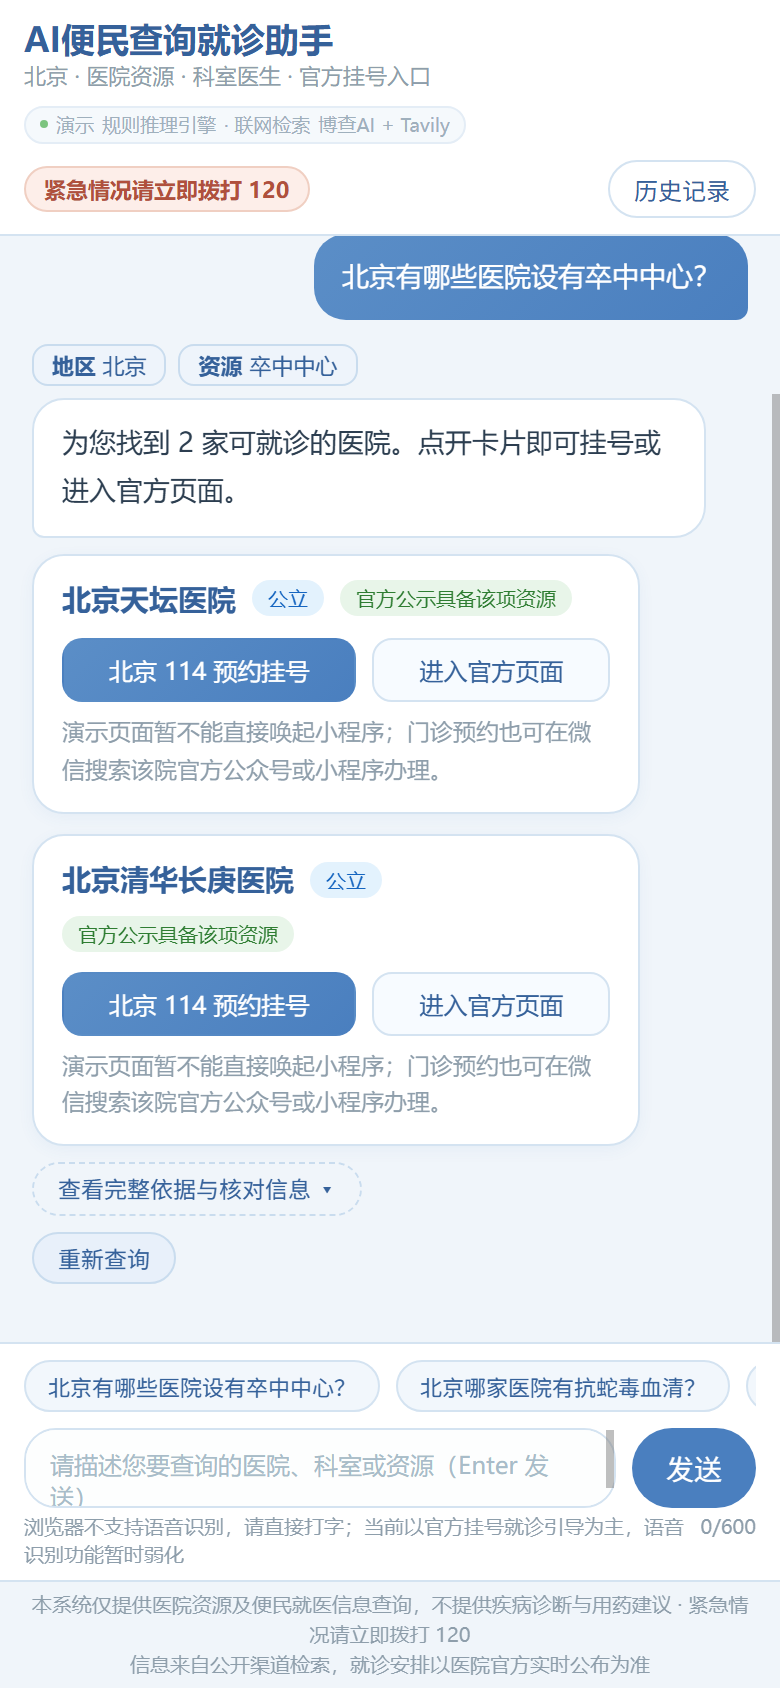
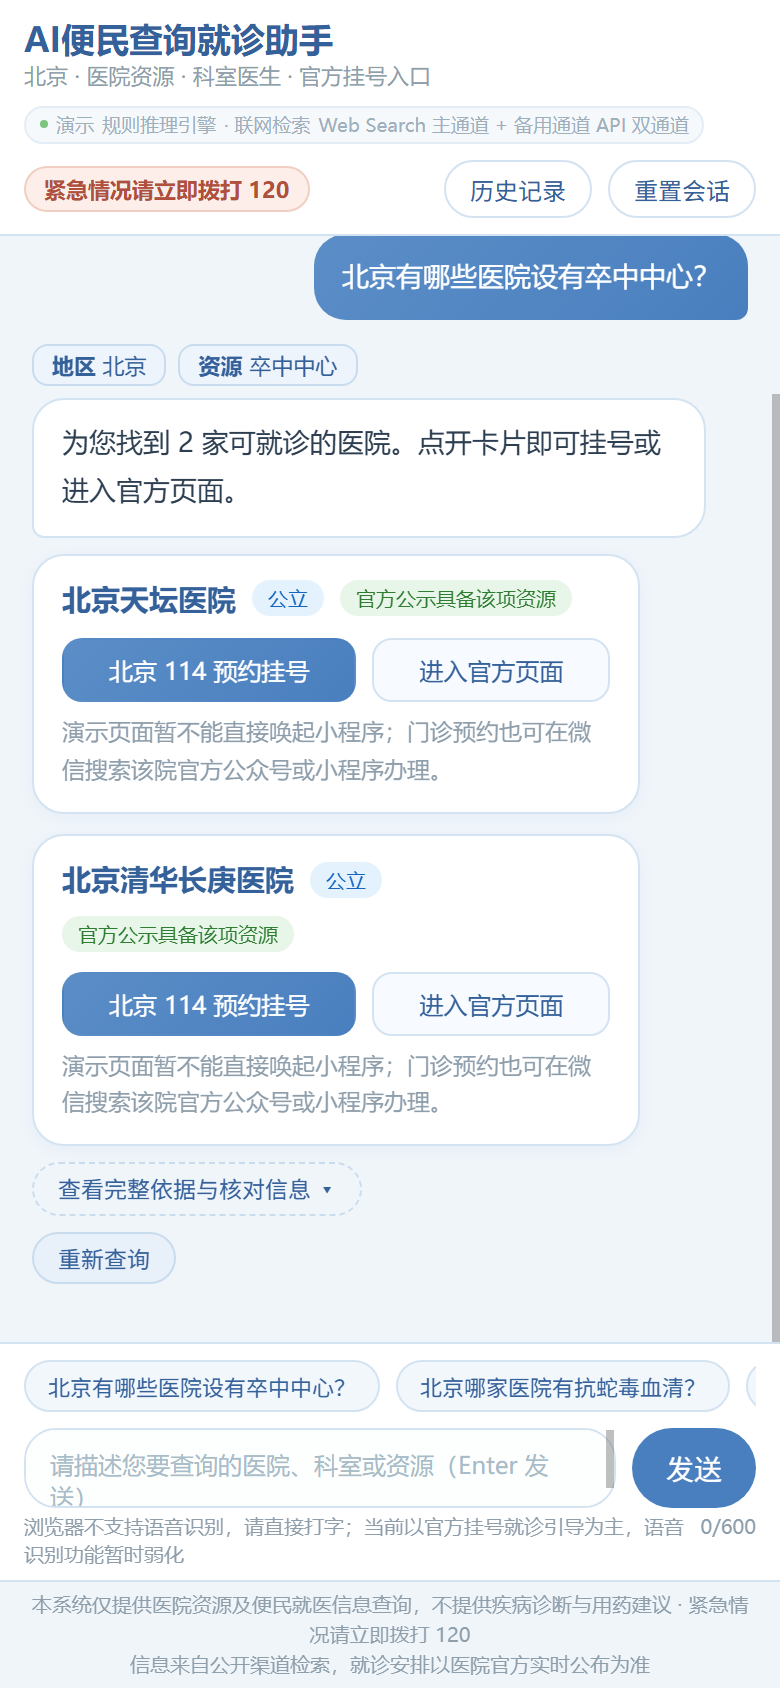
左上角标识改为泛化表述；刷新改版截图

Changed region(s): [[0.4, 0.0616, 0.9538, 0.1232]]

diff --git a/public/index.html b/public/index.html
@@ -166,7 +166,7 @@
 <body>
 <header>
   <div class="logo">AI便民查询就诊助手<small>北京 · 医院资源 · 科室医生 · 官方挂号入口</small></div>
-  <span class="model-badge" title="推理方式：规则推理引擎（不依赖大模型内部知识回答医院事实）｜联网检索：博查AI Web Search + Tavily Search API｜本标识不含任何密钥">演示 <b>规则推理引擎</b> · 联网检索 <b>博查AI + Tavily</b></span>
+  <span class="model-badge" title="推理方式：规则推理引擎（不依赖大模型内部知识回答医院事实）｜联网检索：Web Search 主通道 + 备用通道 API 双通道｜本标识不含任何密钥">演示 <b>规则推理引擎</b> · 联网检索 <b>Web Search 主通道 + 备用通道 API 双通道</b></span>
   <span class="sos">紧急情况请立即拨打 120</span>
   <div class="spacer"></div>
   <button class="hbtn" id="histBtn" type="button">历史记录</button>
